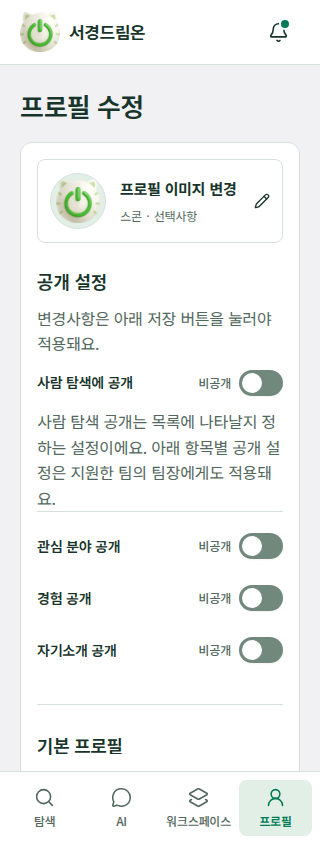
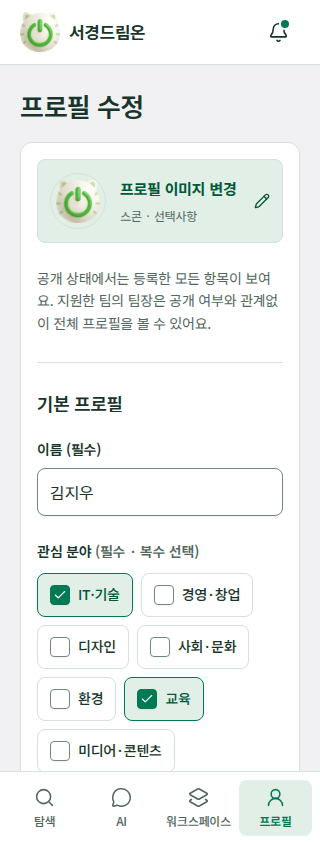
docs(design): record profile policy flows and mobile UX audit

diff --git a/docs/design/screens.md b/docs/design/screens.md
@@ -2,13 +2,15 @@
 
 경로의 공통 접두사는 `/design-preview`이며 로컬 기준 주소는 `http://127.0.0.1:5174`입니다. 경로의 모양이 제품의 최종 URL을 확정하지는 않습니다. 전체 화면 연결은 [라우트 원본](../../design-reference/src/pages/DesignPreviewPage.tsx), 공통 상단·하단 탐색은 [PreviewShell](../../design-reference/src/features/design-preview/PreviewShell.tsx)에서 확인합니다.
 
+프로필 전체 공개·지원 팀장 예외와 AI 로그인 전용 정책은 [정책 문서 PR #75](https://github.com/wejo-team/sku-dreamon/pull/75)에 정리되어 있으며 아직 병합 전입니다. 아래 화면은 그 정책을 반영한 참고 구현으로, 실제 제품 개발의 선행 정책 검토로 함께 확인합니다.
+
 탐색·AI·워크스페이스·내 프로필 보기의 루트 제목은 하단 탐색과 중복되므로 `h1.sr-only`로 유지하고 화면 공간은 사용하지 않습니다. 공모전·팀·지원자 상세 제목과 `프로필 수정` 제목은 표시합니다. 로그인 안내와 필요한 복귀 링크도 유지합니다.
 
 ## 화면별 참조
 
 | 화면·경로 | 코드 원본 | 구현할 정책·완료 조건 |
 | --- | --- | --- |
-| 로그인·가입 `/login`, `/signup` | [AccountPages](../../design-reference/src/features/design-preview/AccountPages.tsx) | [인증 AC-04~13](../specs/authentication.md#acceptance-criteria): 자체 로그인·교내 미인증·로그인 후 행동·접근 권한. 레퍼런스 로그인은 모의 동작 |
+| 로그인·가입 `/login`, `/signup` | [AccountPages](../../design-reference/src/features/design-preview/AccountPages.tsx) | [인증 AC-04~14](../specs/authentication.md#acceptance-criteria): 자체 로그인·교내 미인증·로그인 후 행동·접근 권한. 레퍼런스 로그인은 모의 동작 |
 | 공모전 탐색 `/explore` | [ExplorePages](../../design-reference/src/features/design-preview/ExplorePages.tsx), [ExploreFilters](../../design-reference/src/features/design-preview/ExploreFilters.tsx) | [공고 명세](../specs/contests.md): 제목·분야·마감·공개 정보, 검색·필터·빈 결과. 분야는 아이콘으로 여는 Drawer에서 선택·적용 |
 | 공모전 상세 `/contests/:contestId` | [ExplorePages](../../design-reference/src/features/design-preview/ExplorePages.tsx) | [공고 공개·참가·마감 정책](../specs/contests.md): 원문·참가 방식·인원·일정·제출물·미확인 정보, 관련 팀·팀 만들기 연결 |
 | 팀 탐색 `/explore?tab=teams` | [ExplorePages](../../design-reference/src/features/design-preview/ExplorePages.tsx) | [팀 AC-01](../specs/team-recruitment.md#acceptance-criteria): 모집 역할·정원·상태·공모전별 탐색 |
@@ -18,11 +20,11 @@
 | 내 지원 `/workspace?view=applications` | [WorkspacePages](../../design-reference/src/features/design-preview/WorkspacePages.tsx) | [팀 AC-04·17~18](../specs/team-recruitment.md#acceptance-criteria): 현재 지원 상태·선발 후 취소·자리 반환·재지원 |
 | 팀 공간 `/teams/:teamId?view=space` | [WorkspacePages](../../design-reference/src/features/design-preview/WorkspacePages.tsx) | [팀 AC-09·13·20·25](../specs/team-recruitment.md#acceptance-criteria): 팀장·현재 팀원만 접근, 확정 인원·남은 자리·공고·모집 상태 |
 | 지원자 관리 `/teams/:teamId?view=applicants` | [WorkspacePages](../../design-reference/src/features/design-preview/WorkspacePages.tsx) | [팀 AC-05·14·16](../specs/team-recruitment.md#acceptance-criteria): 해당 팀장만 실제 지원자 검토·선발. 선발 성공 즉시 팀원 확정 |
-| 지원자 검토 `/applicants/:applicantId` | [WorkspacePages](../../design-reference/src/features/design-preview/WorkspacePages.tsx) | [프로필 공개 정책](../specs/profile.md#visibility), [팀 선발 정책](../specs/team-recruitment.md#membership-capacity): 현재 공개된 경험·역량·소개·동의한 포트폴리오 |
-| 내 프로필 `/profile` | [AccountPages](../../design-reference/src/features/design-preview/AccountPages.tsx), [ProfileFields](../../design-reference/src/features/design-preview/ProfileFields.tsx) | [프로필 AC-01·06·20~25](../specs/profile.md#acceptance-criteria): 학사·역량·경험·시간 입력, 단일 포트폴리오 URL·제목, 공개 스위치, 선택형 마스코트 이미지 |
+| 지원자 검토 `/applicants/:applicantId` | [WorkspacePages](../../design-reference/src/features/design-preview/WorkspacePages.tsx) | [프로필 공개 정책](../specs/profile.md#visibility), [팀 선발 정책](../specs/team-recruitment.md#membership-capacity): 지원한 팀장이 공개 상태와 관계없이 전체 현재 프로필을 확인. 일반 팀원은 이 예외를 갖지 않음 |
+| 내 프로필 `/profile` | [AccountPages](../../design-reference/src/features/design-preview/AccountPages.tsx), [ProfileFields](../../design-reference/src/features/design-preview/ProfileFields.tsx) | [프로필 AC-01·06·20~25](../specs/profile.md#acceptance-criteria): 학사·역량·경험·시간 입력, 단일 포트폴리오 URL·제목, 전체 프로필 공개 스위치와 전환 확인, 선택형 마스코트 이미지 |
 | 본인 공개 화면 확인 `/profile/public` | [AccountPages](../../design-reference/src/features/design-preview/AccountPages.tsx) | [사람 탐색과 공개 설정](../specs/profile.md#people-directory): 본인이 설정한 공개 결과 확인 |
-| 사람 탐색·상세 `/explore?tab=people`, `/people/:personId` | [ExplorePages](../../design-reference/src/features/design-preview/ExplorePages.tsx) | [프로필 AC-23~24](../specs/profile.md#acceptance-criteria): 로그인과 탐색 공개 동의, 항목별 공개. 지원자 관계와 구분 |
-| AI `/ai` | [AiChatPage](../../design-reference/src/features/design-preview/AiChatPage.tsx) | [LLM 추천 AC-16~24](../specs/matching.md#acceptance-criteria): 자연어 입력·결과·후속 조건·중단·실패·재시도·빈 결과. 실제 LLM은 미구현 |
+| 사람 탐색·상세 `/explore?tab=people`, `/people/:personId` | [ExplorePages](../../design-reference/src/features/design-preview/ExplorePages.tsx) | [프로필 AC-08~12·23~24](../specs/profile.md#acceptance-criteria): 로그인 후 공개 프로필 검색·전체 등록 항목 열람. 비공개 프로필의 일반 검색·AI 결과·직접 상세 접근 제외. 지원자 관계와 구분 |
+| AI `/ai` | [AiChatPage](../../design-reference/src/features/design-preview/AiChatPage.tsx) | [LLM 추천 AC-16~25](../specs/matching.md#acceptance-criteria): 로그인 후 자연어 입력·결과·후속 조건·중단·실패·재시도·빈 결과. 실제 LLM은 미구현 |
 | 상단 알림함 · 별도 경로 없음 | [Notifications](../../design-reference/src/features/design-preview/Notifications.tsx) | [알림 AC-01~06](../specs/notifications.md): 읽음·미읽음·모두 읽음·소유 관계·관련 화면 이동 |
 | 시작·없는 경로 `/loading`, 정의되지 않은 주소 | [LoadingPage](../../design-reference/src/features/design-preview/LoadingPage.tsx), [라우트](../../design-reference/src/pages/DesignPreviewPage.tsx) | 시작 안내와 찾을 수 없는 대상·경로에서 탐색으로 돌아가기 |
 
@@ -34,21 +36,24 @@ UI에서 확인할 수 있는 흐름과 명세 전체의 구현 완료는 다릅
 | --- | --- |
 | 탐색 → 상세 → 복귀 | 검색·선택한 탭·필터, 결과 없음, 공고·팀이 없는 주소. 커서 조회·무한 스크롤·이전 스크롤 복원은 현재 제품 계약으로 확정하지 않음 |
 | 탐색 필터·정렬·초기화 | 필터 아이콘 → Drawer의 분야/역할 초안 선택 → 적용 시 URL 반영. 취소·Escape·바깥 닫기 시 미적용 선택 제거, 다시 열면 적용값 복원. 팀의 모집중만 조건, 정렬만 변경했을 때도 초기화 아이콘 표시·기본 조건 복원 |
-| 탐색 → AI | 공모전·팀 탭의 검색창 오른쪽 안에 있는 AI 아이콘으로 이동. 사람 탭에는 표시하지 않음. AI 진입과 검색어 지우기는 각각 독립된 44px 조작 영역·접근성 이름 제공 |
+| 탐색 → AI | 공모전·팀·사람 세 탭 모두 검색창 오른쪽 안의 AI 아이콘으로 이동. 비로그인은 로그인 안내 후 이어가기. AI 진입과 검색어 지우기는 각각 독립된 44px 조작 영역·접근성 이름 제공 |
 | 워크스페이스 → 내 지원·팀 만들기 | 내 팀·내 지원 콘텐츠 제목과 개수 옆에 작업 아이콘 배치. 목록 아이콘의 접근성 이름·title은 `내 지원`, 더하기 아이콘은 `팀 만들기`. 각각 44px 조작 영역을 유지하고 팀 만들기는 녹색 주요 행동으로 표시. 내 지원 화면에서는 해당 아이콘의 `aria-current`·녹색 선택 상태와 `내 팀으로` 복귀 링크 확인 |
-| 워크스페이스 → 팀 공간 | 카드 전체가 링크이며 접근성 이름은 팀 이름과 `팀 공간으로`를 포함. 카드 안 이동 문구는 생략하고 내 역할·확정 인원 요약과 같은 행의 우하단 화살표로 이동 가능성을 표시. 공개 모집글과 선발 이후의 명시적 `팀 공간으로` 버튼은 유지 |
+| 워크스페이스 → 팀 공간 | 모집 중은 녹색 배경, 모집 마감·정원 마감은 회색 배경의 상태 배지로 구분하고 상태 문구도 함께 유지. 카드 전체가 링크이며 접근성 이름은 팀 이름과 `팀 공간으로`를 포함. 카드 안 이동 문구는 생략하고 내 역할·확정 인원 요약과 같은 행의 우하단 화살표로 이동 가능성을 표시. 공개 모집글과 선발 이후의 명시적 `팀 공간으로` 버튼은 유지 |
 | 팀 만들기 → 공모전 선택 | Drawer 열기·검색·선택·취소·닫기, 결과가 많을 때 추가 표시, 팀장 포함 총인원 안내와 공식 인원 범위 오류 |
-| 프로필 수정 → 저장 | 첫 기본 정보 카드 상단에 수정 아이콘·공개 상태 스위치·미리보기 아이콘을 묶어 배치. 좁은 화면에서는 이 묶음을 다음 줄로 배치하며 세 조작은 나란히 유지. 수정 아이콘으로 편집 진입. 접근성 이름·title은 `프로필 수정`, 조작 영역은 44px이며 수정 화면 제목은 유지. 캐릭터 팝업 선택·취소·프로필 저장, 기본 스콘, 공개 결과·팀 공간에서 같은 이미지 표시, 학사 상위 선택 변경, 경험 미입력/경험 없음 구분, 공개 동의 기본값, URL 삭제·무효화 후 공개 해제, 취소 시 미저장 값 제거 |
-| 프로필 공개 → 미리보기 | 상단 `공개`/`비공개` 스위치는 `visibility.discoverable`만 즉시 저장하며 항목별 공개와 포트폴리오 동의를 유지. 접근성 이름은 `사람 탐색에 공개`. 눈 아이콘의 `공개된 모습 보기`는 기존 `/profile/public`으로 이동하며 비공개 상태도 그대로 보여줌 |
+| 프로필 수정 → 저장 | 첫 기본 정보 카드 상단에 수정 아이콘·공개 상태 스위치·미리보기 아이콘을 묶어 배치. 좁은 화면에서는 이 묶음을 다음 줄로 배치하며 세 조작은 나란히 유지. 수정 아이콘으로 편집 진입. 접근성 이름·title은 `프로필 수정`, 조작 영역은 44px이며 수정 화면 제목은 유지. 캐릭터 팝업 선택·취소·프로필 저장, 기본 스콘, 공개 결과·팀 공간에서 같은 이미지 표시, 학사 상위 선택 변경, 경험 미입력/경험 없음 구분, 기본 비공개, URL 수정·삭제가 전체 공개 상태를 바꾸지 않는지 확인, 취소 시 미저장 값 제거 |
+| 프로필 공개 → 미리보기 | 상단 `공개`/`비공개` 스위치의 접근성 이름은 `프로필 공개`. 양방향 전환에서 검색·전체 항목 노출과 지원 팀장 예외를 설명하는 Drawer를 열고 `공개로 전환`/`비공개로 전환` 확인 후 저장. 취소·Escape·바깥 닫기는 기존 상태 유지. 눈 아이콘의 `공개된 모습 보기`는 `/profile/public`으로 이동하며 비공개 상태도 그대로 보여줌 |
+| 프로필 이미지 선택 | 큰 장식 제목을 두지 않고 `마음에 드는 파워프렌즈를 골라보세요.`를 작은 설명으로 표시. `프로필 이미지 변경` Drawer 제목은 `sr-only`로 유지하며 선택·적용·취소와 포커스 복귀 확인 |
 | 학교 인증 안내 | 내 프로필의 빨간 `교내 미인증` 배지를 누르면 미제공 기능 안내 Drawer 표시. 확인·Escape·바깥 영역 닫기와 배지 포커스 복귀 제공. 파란 `교내 인증` 배지 스타일은 후속 인증 상태용으로 준비하며 현재 계정에 인증을 부여하지 않음 |
 | 지원 → 내 지원 | 로그인 안내, 필수 프로필 보완 후 원래 흐름 복귀, 선택 메시지, 중복·마감·정원 부족, 접수 후 현재 지원 표시 |
-| 팀장 검토 → 선발 | 해당 팀장 권한, 현재 공개 프로필, 선발 즉시 멤버 반영·남은 자리 감소, 마지막 자리·공모전별 소속 제한 |
+| 팀장 검토 → 선발 | 해당 팀장 권한, 비공개라도 등록한 전체 현재 프로필 표시, 지원 메시지의 본인·지원 팀장 제한, 일반 팀원의 비공개 프로필 접근 제한, 선발 즉시 멤버 반영·남은 자리 감소, 마지막 자리·공모전별 소속 제한 |
 | 선발 후 취소 → 재지원 | 팀 공간 접근 종료·자리 반환, 과거 선발 복원 없이 새 지원, 현재 모집 종료·정원 조건 재확인 |
-| AI → 추천 카드 → 상세 | 준비 중·중단·오류·재시도·결과 없음, 공개 정보 제한, 다시 돌아왔을 때 대화 유지. 이전 카드 표시·복사에도 현재 공개 범위·모집 상태·마감·정원 반영, 입력창과 하단 영역의 겹침 |
+| AI → 추천 카드 → 상세 | 로그인 후에만 대화·입력·결과 제공. 비로그인 직접 주소·로그아웃 뒤에는 로그인 안내이며 이전 대화·입력 제거. 준비 중·중단·오류·재시도·결과 없음, 공개 정보 제한, 다시 돌아왔을 때 대화 유지. 이전 카드 표시·복사에도 현재 공개 범위·모집 상태·마감·정원 반영, 입력창과 하단 영역의 겹침 |
 | AI → 새 대화 | 입력창 왼쪽 도구 아이콘으로 시작. 접근성 이름·title은 `새 대화`, `type="button"`으로 전송과 분리하며 대화·입력 초안 초기화 동작 유지 |
 | 알림 → 관련 화면 | 알림함 열기만으로 읽음 처리하지 않음, 개별/모두 읽음, 빈 상태, 비로그인에 개인 항목 비노출. 읽음 실패 시 개수와 미읽음 상태 유지, 같은 동작 재시도 후 관련 화면 이동 |
 
 반응형 확인은 320px·390px·430px 모바일 폭을 기준으로 합니다. 팝업 포커스·닫기·키보드, 긴 제목·설명, 큰 글꼴, 안전 영역과 세로 스크롤을 함께 검토합니다. 테스트 결과·스크린샷은 검증한 커밋과 함께 PR에 연결합니다.
+
+공개 사람 상세·본인 공개 미리보기·지원자 상세의 등록 항목은 [ProfileDetails](../../design-reference/src/features/design-preview/ProfileDetails.tsx)를 함께 참고합니다. 학사 정보·관심·역량·경험·자기소개·활동 가능 시간·포트폴리오 URL/제목을 같은 정보 계층으로 표시합니다. 인증 정보나 미수집 연락처를 공개 항목으로 추가하지 않습니다. 비공개 프로필도 지원받은 팀장은 전체 현재 정보를 보지만 일반 검색에 포함하지 않으며, 실제 LLM에 비공개 데이터를 전송하는 권한을 뜻하지 않습니다.
 
 키·값 정보는 공모전 카드·상세, 팀 목록·공간, 내 프로필·공개 프로필·지원자 검토에서 같은 [정보 계층](tokens.md)을 사용합니다. 워크스페이스 팀 카드는 내 역할과 확정 인원/정원으로 요약하고, 중복되는 `팀장 포함 총 N명` 안내는 생략합니다. 요약 옆 화살표는 별도 버튼이 아니며 카드 링크의 일부입니다. 팀 만들기·모집 상세의 정원 안내와 팀장 포함 정원 계산 정책은 유지합니다.
 

diff --git a/docs/design/verification.md b/docs/design/verification.md
@@ -1,6 +1,8 @@
 # 공식 디자인 검증 기록
 
-2026-10-19에는 탐색·AI·워크스페이스·프로필의 하단 내비게이션과 중복되는 상단 제목을 줄였습니다. 접근성용 페이지 제목은 유지하고, 상세 화면과 프로필 수정 제목은 그대로 표시합니다. 탐색의 AI 진입점은 검색창 오른쪽, 새 대화는 AI 입력창, 프로필 수정은 기본 정보 카드 안에 배치했습니다. 워크스페이스는 내 팀·내 지원 제목과 개수 옆에 작업 아이콘을 둡니다. 회색 배경·흰 기본 카드·녹색 선택 상태는 유지합니다. 프로필 카드 상단은 수정·공개/비공개·미리보기를 한 묶음으로 정리했습니다. 학교 인증 설명은 빨간 미인증 배지를 누르면 열리는 안내 팝업으로 옮겼으며, 파란 인증 배지는 후속 상태의 스타일만 준비했습니다.
+2026-10-19에는 프로필의 항목별 공개 설정을 하나의 공개·비공개 상태로 통합하고, 전환 전에 설명·확인 팝업을 제공합니다. 공개이면 로그인한 사용자가 등록된 모든 항목을 확인하고, 비공개이면 일반 검색·AI 사람 탐색·일반 상세 주소에서 제외합니다. 지원받은 팀장은 공개 상태와 관계없이 전체 현재 프로필을 확인합니다. 정책 변경은 병합 전인 [문서 PR #75](https://github.com/wejo-team/sku-dreamon/pull/75)에 정리되어 있습니다.
+
+AI는 로그인 후에만 이용하며 공모전·팀·사람 검색창 모두에 진입 아이콘을 둡니다. 워크스페이스의 모집 중 배지는 녹색, 모집 마감·정원 마감 배지는 회색으로 구분합니다. 프로필 이미지 선택창은 큰 장식 제목 대신 작은 설명을 사용하고, 접근성용 제목과 선택·적용·취소 동작을 유지합니다. 회색 화면 배경·흰 기본 카드·녹색 선택 상태와 기존 상단 공간 정리는 유지합니다.
 
 재생성 가능한 검증 원본은 [탐색 테스트](../../design-reference/src/features/design-preview/ExplorePages.test.tsx)·[프로필 테스트](../../design-reference/src/features/design-preview/AccountPages.test.tsx)와 [브라우저 검사 스크립트](../../design-reference/scripts/reference-check.cjs)이며, 화면은 같은 변경 PR에 포함된 코드 기준입니다.
 
@@ -9,25 +11,37 @@
 | 검사 | 결과 |
 | --- | --- |
 | 고정 의존성 `npm ci` | 이전 검증에서 성공. 이번에는 의존성 변경 없이 기존 설치를 사용했으며 재실행하지 않음 |
-| `npm test` | 이번 변경에서 9개 파일·111개 테스트 통과 |
-| ESLint | 이번 변경에서 전체 검사 통과 |
-| Prettier | 이번 변경에서 통과 |
-| TypeScript·production build | 이번 변경에서 통과. 단일 JS 청크 678.14kB 경고는 남아 있으며 제품 구현 시 분할·실제 네트워크 성능 검증 필요 |
-| `npm run check:ui` | 직전 상단 제목 변경에서 Chromium 320×844·390×844·430×844 통과. 기존 흐름·필터 취소/적용/초기화·워크스페이스 요약을 함께 확인 |
-| 브라우저 확인 | 직전 상단 제목 변경에서 비로그인 사람 차단, 마감 공고 읽기 전용, 생성·프로필, 선발 즉시 팀원·정원 반영, AI 실패/재시도, 알림 실패/재시도 확인 |
-| 상단 제목·작업 아이콘 | 직전 상단 제목 변경에서 320·390·430px 확인. 접근성용 루트 제목 유지·상세 제목 표시, 검색창 안 AI·지우기 44px 분리, AI 이동·새 대화 초기화·프로필 수정/취소 확인 |
-| 프로필 상단 조작·인증 안내 | 이번 변경에서 320·390·430px 확인. 공개/비공개 즉시 반영, 기존 항목별·포트폴리오 동의 보존, 미리보기 공개/비공개, 수정/취소, 인증 팝업 열기·닫기·Escape 포커스 복귀, 가로 넘침·런타임 오류 없음 |
-| 별도 모바일 흐름 | 이전 검증에서 필수 입력 오류·원래 팀 복귀, 모집에 없는 역할 지원, 취소 후 새 지원, 공식 인원 오류, 개인 공모전 준비 팀, 공개 스위치·학사 연쇄 선택·포트폴리오 저장 확인 |
-| 마스코트·기본 커버 | 이전 검증에서 5종 원본 PNG·선택/취소/저장·공개 프로필 반영, 이미지 없음/로드 실패 fallback, 320·390·430px 브라우저 확인 |
-| 키보드·작은 높이 | 직전 변경에서 마스코트·탐색 필터의 화살표 키·Escape·트리거 포커스 복귀 확인. 320×568에서 두 선택 목록의 스크롤·하단 버튼 접근, 탐색 필터 적용·취소 확인 |
-| 색상 대비 | 인증 배지 흰 글자는 미인증 빨강 6.57:1·인증 파랑 6.70:1. 주요 버튼·선택 탭 흰 글자 5.36:1. 카드 보조 글자 #40594a는 기본·hover·누름 면에서 7.65:1·5.07:1·4.61:1, 녹색 값 #00573a는 각각 8.66:1·5.74:1·5.22:1. 흰 조작 면의 기본 보조 글자는 6.07:1. 모든 화면 전체의 자동 접근성 감사 완료를 뜻하지 않음 |
-| 카드와 배경 | 배경 #f1f1f3 유지. 기본 카드 #ffffff, hover #bdd9c7·누름 #b2d0bd와 녹색 테두리, 아래쪽 그림자 적용. 카드 안 공모전 정보 면은 #f2f7f4 |
-| 탐색 탭·필터 | 선택 탭은 #007a55 바탕·흰 글자·600 두께. 필터의 초안 취소·적용·URL 복원과 정렬만 변경한 상태의 초기화는 직전 컴포넌트 테스트에서 통과 |
-| 정보 계층·중복 안내 | 키 13px/500 보조색 유지, 값 16px/600을 #00573a로 변경, 긴 설명 16px/400·본문 색상 유지. 7개 정보 화면의 320·390·430px 배치와 팀 목록 중복 안내 제거는 직전 변경에서 확인했으며 정원 정책은 유지 |
-| 레퍼런스 화면 | 모바일 320·390·430px에서 가로 넘침·브라우저 런타임 오류 없음. 기본 화면은 포인터를 카드 밖에 둔 상태로, hover는 별도 화면으로 기록 |
-| 문서 | 최신 스크린샷을 포함한 원본 링크·앵커, VitePress 빌드·생성 링크·자산 검사 통과. 문서 도구는 변경하지 않아 이전에 통과한 도구 테스트는 재실행하지 않음 |
+| `npm test` | 최종 수정 후 9개 파일·133개 테스트 통과 |
+| ESLint·Prettier | 최종 수정 후 전체 검사 통과 |
+| TypeScript·production build | 최종 수정 후 통과, 단일 JS 청크 675.75kB. 500kB 초과 경고는 남아 있으며 제품 구현 시 분할·실제 네트워크 성능 검증 필요 |
+| `npm run check:ui` | 이번 변경에서 Chromium 320×844·390×844·430×844 통과. 기존 탐색·생성·프로필·지원·선발·AI·알림과 필터·워크스페이스 흐름 확인 |
+| 공개 전환·전체 프로필 | 별도 브라우저 320·375·390·430px에서 전환 설명·확인·취소·Escape·포커스 복귀 확인. 공개 프로필의 등록 항목·시간·포트폴리오 표시, 비공개의 일반 검색·직접 상세 차단, 지원 팀장의 전체 현재 프로필 열람 확인 |
+| AI 로그인·진입 | 같은 네 모바일 폭에서 비로그인 AI 접근 제한·로그인 후 복귀, 공모전·팀·사람 검색창의 AI 아이콘 확인. AI 대화는 로그인 후 제공하며 실제 LLM을 호출하지 않음 |
+| 모집 상태·프로필 이미지 | 같은 네 모바일 폭에서 모집 상태별 배경색과 문구, 마스코트 선택창의 작은 설명·접근성용 제목·선택과 취소 확인 |
+| 기존 연결·예외 흐름 | `check:ui`에서 비로그인 사람 차단, 마감 공고 읽기 전용, 프로필·팀 생성, 선발 즉시 팀원·정원 반영, AI 실패/재시도, 알림 실패/재시도 확인 |
+| 마스코트·기본 커버 | 5종 원본 PNG와 기본 스콘, 선택·취소·저장·공개 프로필 반영, 공모전 이미지 없음·로드 실패 fallback을 기존 브라우저 검사와 최신 재검사에서 확인 |
+| 키보드·작은 높이 | 320×568·667×375 가로 화면에서 공개 전환 팝업의 하단 버튼·취소 후 포커스 복귀, 마스코트 마지막 선택지·적용 버튼 접근 통과. 390×844에서 팝업 제목·설명을 CSS로 150% 확대해 배치 확인. 실제 기기 확대 검증은 아님 |
+| 색상 대비 | 모집 중 #164c35/#cce9d7은 7.65:1, 마감 #52525b/#e4e4e7은 6.09:1. 인증 배지 흰 글자는 미인증 빨강 6.57:1·인증 파랑 6.70:1. 주요 버튼·선택 탭 흰 글자 5.36:1. 카드 보조 글자 #40594a는 기본·hover·누름 면에서 7.65:1·5.07:1·4.61:1, 녹색 값 #00573a는 각각 8.66:1·5.74:1·5.22:1. 흰 조작 면의 기본 보조 글자는 6.07:1 |
+| 카드와 배경 | 배경 #f1f1f3 유지. 기본 카드 #ffffff, hover #bdd9c7·누름 #b2d0bd와 녹색 테두리·아래쪽 그림자 적용. 모집 상태 배지의 색을 달리해도 카드 전체의 기본 면은 유지 |
+| 정보 계층 | 키는 13px/500 보조색, 값은 16px/600 녹색, 긴 설명은 16px/400 본문 색상. 빈 역량 안내의 불필요한 굵기를 제거하고 긴 설명의 줄바꿈을 정리 |
+| 레퍼런스 화면 | 최신 브라우저 검사에서 모바일 가로 넘침·런타임 오류 없음. 기본 화면은 포인터를 카드 밖에 둔 상태로, hover는 별도 화면으로 기록 |
+| 독립 코드 검토 | 공개/비공개 조회·지원 팀장 예외·AI 로그인 범위에서 중요 발견 사항 없음. 서버 권한 검증을 대신하지 않음 |
+| 문서 | 최신 스크린샷을 포함한 원본 링크·앵커, VitePress 빌드·생성 링크·자산 검사 통과. 문서 도구는 변경하지 않음 |
 
 브라우저 검사는 설치된 Playwright/Chromium을 환경 변수로 지정해 실행했습니다. 일반 설치·수동 실행 명령은 [인계 문서](handoff.md#verification-commands)를 따릅니다. 실제 기기의 키보드·보조 기술, 서버 권한, 다중 사용자 동시 선발, 영구 저장과 실제 LLM 품질은 검증 대상이 아닙니다. 이 결과는 기능 명세 AC의 제품 구현 완료를 의미하지 않습니다.
+
+## UI/UX 점검
+
+`ui-ux-pro-max` 기준으로 접근성·터치 조작·상태 구분·정보 계층·모바일 배치를 확인했습니다. 점검에서 발견한 문제와 반영한 변경은 다음과 같습니다.
+
+| 발견 사항 | 반영 |
+| --- | --- |
+| 공개 스위치와 DrawerTrigger가 같은 `data-state`를 사용해 실제 공개 상태와 시각 상태가 충돌 | 스위치 상태와 팝업 상태를 분리하고, 확인·취소·Escape 이후 상태와 트리거 포커스 복귀를 다시 확인 |
+| 비어 있는 역량 안내가 실제 입력 값처럼 굵게 표시 | 보조 안내의 일반 굵기로 조정해 실제 값과 구분 |
+| 긴 공개 안내와 프로필 설명의 모바일 줄바꿈 | 좁은 폭에서도 문장·조작을 읽을 수 있도록 정리 |
+| 모집 중과 마감 상태의 배경이 유사 | 녹색·회색 배경을 구분하면서 상태 문구를 유지해 색상만으로 의미를 전달하지 않음 |
+
+위 결과는 검토한 화면·상태에 대한 점검이며 모든 화면의 자동 접근성 감사, 실제 모바일 보조 기술 검증이나 제품 서버의 권한 검증 완료를 뜻하지 않습니다.
 
 ## 모바일 화면
 
@@ -41,27 +55,27 @@
 | --- | --- |
 | ![분야와 역할을 선택하는 탐색 필터 팝업](assets/explore-filters-390.png) | ![더 진한 색과 그림자로 구분되는 카드 hover 상태](assets/explore-hover-390.png) |
 
-워크스페이스는 내 팀·내 지원 제목 옆에 작업 아이콘을 배치합니다. 카드에서는 역할과 확정 인원을 강조하고, 전체 카드를 누르면 팀 공간으로 이동합니다.
+워크스페이스는 내 팀·내 지원 제목 옆에 작업 아이콘을 배치합니다. 모집 중은 녹색, 모집 마감·정원 마감은 회색 배지로 구분합니다. 카드에서는 역할과 확정 인원을 강조하고, 전체 카드를 누르면 팀 공간으로 이동합니다.
 
-![키와 값의 위계가 분명한 워크스페이스 팀 카드](assets/workspace-390.png)
+![모집 상태 배경과 역할·인원을 구분한 워크스페이스 팀 카드](assets/workspace-390.png)
 
 | 즉시 선발 확인 · 390px | 확정 팀원 · 390px |
 | --- | --- |
 | ![선발 확인 팝업](assets/selection-390.png) | ![선발 이후 확정 팀원](assets/members-390.png) |
 
-| 공개 설정 · 320px | 팀 생성 · 320px |
+| 프로필 입력 · 320px | 팀 생성 · 320px |
 | --- | --- |
-| ![독립적인 프로필 공개 설정](assets/profile-320.png) | ![모바일 팀 생성 폼](assets/create-team-320.png) |
+| ![항목별 공개 스위치를 제거한 프로필 입력 화면](assets/profile-320.png) | ![모바일 팀 생성 폼](assets/create-team-320.png) |
 
 | 마스코트 선택 · 390px | 공모전 기본 커버 · 390px |
 | --- | --- |
-| ![파워프렌즈 프로필 이미지 선택](assets/avatar-picker-390.png) | ![이미지가 없는 공모전의 스콘 커버](assets/default-cover-390.png) |
+| ![작은 설명과 캐릭터 선택지가 있는 파워프렌즈 프로필 이미지 선택](assets/avatar-picker-390.png) | ![이미지가 없는 공모전의 스콘 커버](assets/default-cover-390.png) |
 
 공모전 검색 팝업은 320px에서도 썸네일·이름·주최자·마감과 선택 표시를 함께 확인합니다.
 
 ![썸네일이 포함된 공모전 선택 팝업](assets/contest-picker-320.png)
 
-검색창의 AI 진입점과 프로필 카드의 수정·공개·미리보기 조작은 별도 페이지 제목 없이 사용할 수 있습니다. AI의 새 대화는 입력창 왼쪽 아래에 있습니다.
+세 탐색 탭의 검색창 AI 아이콘과 프로필 카드의 수정·공개·미리보기 조작은 별도 페이지 제목 없이 사용할 수 있습니다. 공개·비공개 전환은 설명 팝업에서 확인한 뒤 반영되며 항목별 설정은 없습니다. AI의 새 대화는 로그인한 화면의 입력창 왼쪽 아래에 있습니다.
 
 | 검색어 지우기·AI · 320px | 프로필 수정 진입 · 390px |
 | --- | --- |
@@ -72,3 +86,15 @@
 학교 인증 안내는 미인증 배지를 눌렀을 때만 표시합니다. 현재 계정의 인증 상태는 바꾸지 않습니다.
 
 ![교내 미인증 배지에서 열린 학교 인증 안내 팝업](assets/profile-school-390.png)
+
+| 공개 전환 확인 · 390px | 비공개 전환 확인 · 390px |
+| --- | --- |
+| ![공개되는 전체 항목과 지원 팀장 예외를 설명하는 팝업](assets/profile-public-confirm-390.png) | ![검색 제외와 지원 팀장 예외를 설명하는 팝업](assets/profile-private-confirm-390.png) |
+
+| AI 로그인 안내 · 390px | 사람 탐색의 AI 진입 · 390px |
+| --- | --- |
+| ![비로그인 AI 접근 시 로그인으로 연결하는 화면](assets/ai-login-390.png) | ![사람 검색창 안의 AI 아이콘](assets/people-ai-390.png) |
+
+지원받은 팀장은 지원자 상세에서 공개 설정과 관계없이 등록된 전체 프로필을 확인합니다.
+
+![지원받은 팀장이 확인하는 지원자 프로필](assets/applicant-profile-390.png)

diff --git a/docs/design/tokens.md b/docs/design/tokens.md
@@ -23,6 +23,8 @@
 | 경계·입력 | `--border: #d5e2da`, `--input: #71897c` | 카드와 조작 요소의 경계 |
 | 포커스 | `--ring: #007a55` | 키보드 포커스 표시 |
 | 성공·확정 | `--leaf-soft: #f0fdf4`, `--leaf-ink: #166534` | 성공·완료 상태 |
+| 모집 중 | `--recruiting-background: #cce9d7`, 글자 `#164c35` | `TeamStatusBadge`의 접수 가능한 상태. 상태 문구와 함께 사용 |
+| 모집 마감·정원 마감 | `--closed-background: #e4e4e7`, 글자 `#52525b` | 접수가 닫힌 상태의 회색 면. 카드 자체는 클릭 가능한 흰 기본 면 유지 |
 | 주의·확인 | `--warning-soft: #fffbeb`, `--warning-ink: #92400e` | 확인 필요·주의 상태 |
 | 오류·위험 행동 | `--coral-soft: #fef2f2`, `--coral-ink: #b91c1c` | 오류·파괴적 행동 |
 
@@ -58,13 +60,14 @@
 | 워크스페이스 작업 | [Button](../../design-reference/src/components/ui/button.tsx)의 링크 조합과 [WorkspacePages](../../design-reference/src/features/design-preview/WorkspacePages.tsx). 내 지원은 `ClipboardList`, 팀 만들기는 `Plus` 아이콘 |
 | 입력·선택·설명·오류 | [Input](../../design-reference/src/components/ui/input.tsx), [Textarea](../../design-reference/src/components/ui/textarea.tsx), [NativeSelect](../../design-reference/src/components/ui/native-select.tsx), [Alert](../../design-reference/src/components/ui/alert.tsx) |
 | 학교 인증 상태 | [SchoolVerificationBadge](../../design-reference/src/features/design-preview/PreviewUi.tsx). 미인증은 `--school-unverified: #b42318`, 인증은 `--school-verified: #1d4ed8`, 글자는 흰색. 내 프로필의 미인증 배지는 44px 버튼으로 감싸 안내 Drawer를 열고 다른 화면은 상태 배지로 표시. 현재 계정은 모두 미인증 |
-| 공개 여부 | [Switch](../../design-reference/src/components/ui/switch.tsx)와 [프로필 설정](../../design-reference/src/features/design-preview/AccountPages.tsx) |
+| 공개 여부 | [Switch](../../design-reference/src/components/ui/switch.tsx) + [Drawer](../../design-reference/src/components/ui/drawer.tsx), [ProfileVisibilityControl](../../design-reference/src/features/design-preview/AccountPages.tsx). 전체 프로필 상태 하나를 설명·확인 후 전환하며 취소·닫기는 기존 상태 유지 |
 | 다중·단일 선택 | [Checkbox](../../design-reference/src/components/ui/checkbox.tsx), [RadioGroup](../../design-reference/src/components/ui/radio-group.tsx) |
-| 프로필 캐릭터 선택 | [Drawer](../../design-reference/src/components/ui/drawer.tsx) + [RadioGroup](../../design-reference/src/components/ui/radio-group.tsx), [AvatarPicker](../../design-reference/src/features/design-preview/AvatarPicker.tsx). 팝업 적용 후 프로필 저장, 취소 시 유지 |
+| 프로필 캐릭터 선택 | [Drawer](../../design-reference/src/components/ui/drawer.tsx) + [RadioGroup](../../design-reference/src/components/ui/radio-group.tsx), [AvatarPicker](../../design-reference/src/features/design-preview/AvatarPicker.tsx). 팝업 적용 후 프로필 저장, 취소 시 유지. 제목 `프로필 이미지 변경`은 `sr-only`, 작은 설명 `마음에 드는 파워프렌즈를 골라보세요.`만 표시 |
 | 공모전 검색 선택 | [Drawer](../../design-reference/src/components/ui/drawer.tsx) + [Command](../../design-reference/src/components/ui/command.tsx), [ContestPicker](../../design-reference/src/features/design-preview/ContestPicker.tsx) |
 | 탐색 분야·역할 필터 | [Drawer](../../design-reference/src/components/ui/drawer.tsx) + [RadioGroup](../../design-reference/src/components/ui/radio-group.tsx) + [Checkbox](../../design-reference/src/components/ui/checkbox.tsx), [ExploreFilters](../../design-reference/src/features/design-preview/ExploreFilters.tsx). 초안 선택·취소·적용, 적용한 조건은 URL에 유지 |
 | 시간 설정·알림·확인 | [Drawer](../../design-reference/src/components/ui/drawer.tsx), 각 화면의 열기·닫기·취소·적용 흐름 |
 | AI 대화·입력 | [Message](../../design-reference/src/components/ui/message.tsx), [Bubble](../../design-reference/src/components/ui/bubble.tsx), [InputGroup](../../design-reference/src/components/ui/input-group.tsx), [MessageScroller](../../design-reference/src/components/ui/message-scroller.tsx) |
+| 모집 상태 | [TeamStatusBadge](../../design-reference/src/features/design-preview/PreviewUi.tsx). `recruitmentIssue`에 따라 녹색·회색을 구분하며 `teamStatusLabel`의 상태 문구 유지 |
 | 상태 표시·경계 | [Badge](../../design-reference/src/components/ui/badge.tsx), [Separator](../../design-reference/src/components/ui/separator.tsx) |
 
 컴포넌트는 저장소에 포함된 소스와 고정 의존성을 기준으로 합니다. 공식 사이트의 최신 예제를 복사해 버전·상호작용을 임의로 교체하지 않습니다. 채팅 구성 요소의 출처·라이선스는 [LICENSE.shadcn](../../design-reference/src/components/ui/LICENSE.shadcn)을 유지합니다.
@@ -73,10 +76,10 @@
 
 하단 탐색은 탐색·AI·워크스페이스·프로필의 네 항목입니다. 상단 우측 알림과 하단 프로필의 역할을 구분합니다. 네 루트 화면의 중복 제목은 `h1.sr-only`로 남기고 시각적인 제목 영역은 두지 않습니다. 공모전·팀·지원자 상세와 프로필 수정 화면의 제목은 유지합니다. AI 화면은 대화·입력창·하단 영역을 함께 배치하며 [PreviewShell](../../design-reference/src/features/design-preview/PreviewShell.tsx)의 `visualViewport` 대응을 확인합니다.
 
-공모전·팀 탐색의 AI 추천 진입 아이콘은 검색창 오른쪽 안에 배치하며 사람 탭에는 표시하지 않습니다. 검색어 지우기와 AI 진입은 각각 독립된 44px 조작 영역으로 유지합니다. 필터와 초기화도 최소 44px 아이콘 버튼으로 표시하며 접근성 이름을 제공합니다. 선택한 필터는 개수와 접근성 설명으로 알리고, 공모전 정렬은 선택 목록을 유지합니다. 정렬만 바꾼 경우에도 초기화 아이콘으로 기본 조건으로 돌아갈 수 있습니다.
+공모전·팀·사람 탐색 모두 AI 추천 진입 아이콘을 검색창 오른쪽 안에 배치합니다. AI 대화는 로그인 후 이용하며 비로그인 진입에는 로그인 안내를 표시합니다. 검색어 지우기와 AI 진입은 각각 독립된 44px 조작 영역으로 유지합니다. 필터와 초기화도 최소 44px 아이콘 버튼으로 표시하며 접근성 이름을 제공합니다. 선택한 필터는 개수와 접근성 설명으로 알리고, 공모전 정렬은 선택 목록을 유지합니다. 정렬만 바꾼 경우에도 초기화 아이콘으로 기본 조건으로 돌아갈 수 있습니다.
 
 워크스페이스는 내 팀·내 지원 콘텐츠 제목, 개수, 작업 아이콘을 한 줄로 배치합니다. 내 지원·팀 만들기 링크는 각각 44px 조작 영역과 행동 이름을 나타내는 `aria-label`·`title`을 제공하고, 팀 만들기는 녹색 주요 버튼으로 강조합니다. 내 지원 화면의 목록 아이콘은 `aria-current`와 녹색으로 현재 위치를 표시합니다. 팀 카드는 전체 링크를 유지하고 내 역할·확정 인원과 같은 행 우하단의 `ChevronRight`로 이동을 나타냅니다. 화살표는 장식으로 처리하며, 카드 링크의 접근성 이름에 팀 이름과 `팀 공간으로`를 포함합니다. 이 카드의 이동 문구만 생략하고 상세·선발 이후의 명시적 이동 버튼은 유지합니다.
 
-내 프로필 보기에서는 첫 기본 정보 카드의 이름·아바타 옆에 `SquarePen` 수정 아이콘을 배치합니다. 44px 조작 영역과 `프로필 수정` 접근성 이름·title을 제공하며 공개/비공개 스위치·눈 모양 미리보기를 같은 조작 묶음에 배치합니다. 반복되는 공개 안내 행과 상시 학교 인증 설명은 표시하지 않습니다. 공개 스위치는 사람 탐색 공개만 즉시 저장하며 별도의 항목별 동의는 보존합니다. AI의 `새 대화`는 입력창 왼쪽 도구 아이콘으로 배치하고 `type="button"`을 사용해 메시지 전송과 구분합니다.
+내 프로필 보기에서는 첫 기본 정보 카드의 이름·아바타 옆에 `SquarePen` 수정 아이콘을 배치합니다. 44px 조작 영역과 `프로필 수정` 접근성 이름·title을 제공하며 공개/비공개 스위치·눈 모양 미리보기를 같은 조작 묶음에 배치합니다. 반복되는 공개 안내 행과 상시 학교 인증 설명은 표시하지 않습니다. 공개 스위치의 접근성 이름은 `프로필 공개`이며, 전체 프로필 공개·비공개를 바꾸기 전에 설명 Drawer와 확인·취소 버튼을 제공합니다. 확인 전 스위치는 기존 값을 유지하고 취소·Escape·바깥 닫기로 되돌릴 수 있습니다. 항목별·포트폴리오별 스위치는 두지 않습니다. 등록 시간·포트폴리오를 포함한 전체 항목 공개와 지원 팀장 예외는 [정책 문서 PR #75](https://github.com/wejo-team/sku-dreamon/pull/75)의 병합 전 변경을 참고합니다. AI의 `새 대화`는 입력창 왼쪽 도구 아이콘으로 배치하고 `type="button"`을 사용해 메시지 전송과 구분합니다.
 
 팝업은 열기·닫기·Escape·바깥 영역·포커스 복귀를 확인하고, 폼의 적용과 취소를 구분합니다. 프로필 공개 스위치는 라벨과 설명에서 누구에게 공개되는지 드러내야 합니다. 화면 제목·입력 라벨·오류 메시지·로딩·빈 상태를 유지하고 색만으로 상태를 전달하지 않습니다. 긴 한국어 텍스트·큰 글꼴·화면 확대·작은 높이·키보드가 열린 상태·감소된 모션 설정에서 조작이 가능한지 확인합니다.

diff --git a/docs/design/handoff.md b/docs/design/handoff.md
@@ -2,6 +2,8 @@
 
 팀의 공식 화면·인터랙션 기준은 저장소의 `design-reference/`입니다. 제품 개발에서는 같은 브랜치·커밋의 레퍼런스와 명세를 참조합니다. 배포된 GPT Sites가 이후 변경되더라도 저장소에 반영되지 않은 내용을 자동으로 공식 기준으로 사용하지 않습니다.
 
+프로필 전체 공개·비공개, 지원받은 팀장의 전체 현재 프로필 열람 예외, AI 전체 로그인 전용 정책은 [문서 전용 PR #75](https://github.com/wejo-team/sku-dreamon/pull/75)에 있으며 아직 병합 전입니다. 이 레퍼런스는 해당 정책을 반영한 화면 참고 자료이므로 제품 구현 전 선행 정책 PR의 검토·병합 상태를 확인합니다.
+
 ## 로컬 실행
 
 저장소 루트에서 시작합니다. Node·npm 버전은 [레퍼런스 package.json](../../design-reference/package.json)과 [.nvmrc](../../design-reference/.nvmrc)에 고정돼 있습니다.
@@ -23,7 +25,7 @@ npm run dev
 | 탐색 | `/design-preview/explore` |
 | AI | `/design-preview/ai` |
 
-위 계정은 공개된 로컬 UI 확인용 문자열입니다. 실제 서비스 계정·비밀값이나 인증 구현이 아닙니다. 로그인 전에도 공개 공모전·팀을 볼 수 있고 사람 탐색·개인 화면에는 로그인 안내가 표시됩니다.
+위 계정은 공개된 로컬 UI 확인용 문자열입니다. 실제 서비스 계정·비밀값이나 인증 구현이 아닙니다. 로그인 전에도 공개 공모전·팀을 볼 수 있고 사람 탐색·AI·개인 화면에는 로그인 안내가 표시됩니다. AI는 공모전·팀·사람 등 요청 대상과 관계없이 로그인 후에만 이용하며 직접 주소에도 같은 제한을 적용합니다.
 
 모바일 화면으로 확인하며 별도 데스크톱 서비스 디자인은 제공하지 않습니다. 넓은 창에서는 최대 480px 화면이 가운데 배치됩니다. 브라우저의 모바일 에뮬레이션에서 폭 320px·390px·430px을 확인하고 입력창 키보드·안전 영역·바닥 메뉴는 실제 기기에서도 검증합니다.
 
@@ -48,7 +50,8 @@ npm run dev
 - 데이터는 메모리에 있으므로 새로고침하면 초기 로그인·프로필·팀·지원 상태로 돌아갑니다. 다른 브라우저나 팀원의 화면과 공유되지 않습니다. 탭 이동 중 유지되는 상태도 영구 저장을 뜻하지 않습니다.
 - 로그인은 고정 문자열을 검사하며 계정 발급·비밀번호 해시·서버 세션을 제공하지 않습니다. 가입 화면의 입력은 인터랙션 확인용이고 새로 가입한 아이디·비밀번호로 실제 로그인할 수 있는 계정을 만들지 않습니다.
 - 지원·취소·선발·정원·팀 공간은 로컬 상태 전환을 확인합니다. 실제 여러 사용자 간 동시 요청, 서버 권한 검사·트랜잭션·DB 보존은 제품에서 구현해야 합니다.
-- AI는 예시 데이터에서 로컬 응답을 만드는 UI입니다. 제품 추천은 [LLM 기반](../specs/matching.md)으로 변경됐지만 모델·검색·실행·API·저장 등 내부 아키텍처는 TBD입니다. 로컬 응답 코드를 제품 추천 알고리즘으로 복사하지 않습니다.
+- 프로필 공개 상태는 기본 비공개이며 하나의 스위치로 전체 등록 항목에 적용합니다. 전환 Drawer에서 확인해야 저장하고 취소·닫기는 현재 상태를 유지합니다. 공개이면 로그인한 일반 사용자의 검색·AI 사람 탐색·상세에서 학사·관심·역량·경험·소개·활동 가능 시간·포트폴리오를 확인하며, 비공개이면 일반 검색·상세에서 제외합니다. 지원받은 팀장은 비공개여도 전체 현재 프로필을 보지만 일반 팀원은 이 예외를 갖지 않습니다. 인증 정보·미수집 연락처는 공개 항목이 아닙니다.
+- AI는 로그인한 세션에서 예시 데이터로 로컬 응답을 만드는 UI입니다. 로그아웃하면 화면의 대화·초안도 제거하며, 공모전·팀·사람 검색창 모두 AI 진입 아이콘을 제공합니다. 제품 추천은 [LLM 기반](../specs/matching.md)으로 변경됐지만 모델·검색·실행·API·저장 등 내부 아키텍처는 TBD입니다. 로컬 응답 코드를 제품 추천 알고리즘으로 복사하지 않습니다. 팀장의 비공개 프로필 열람 권한을 외부 LLM 전송·추천 사용 권한으로 확대하지 않으며, 외부 포트폴리오 내용 수집·분석도 제공하지 않습니다.
 - 알림의 읽음 상태·탐색 결과도 로컬 상태입니다. 푸시·이메일·실시간 서버 이벤트를 제공하지 않습니다.
 - 공고·인물·팀·학사 선택지는 화면 확인용 데이터입니다. 학사 데이터의 운영 연도·정규 코드와 실제 공고의 출처·조건은 담당 명세대로 검증합니다. 레퍼런스의 외부 링크를 실제 공고가 존재하거나 접수 가능하다는 근거로 사용하지 않습니다.
 - 실제 제품 시연의 계정·데이터·AI 연동 안내는 [시연 기준](../specs/sprint-1.md#web-demo)을 따릅니다. 공식 디자인의 제품 문구와 모의 구현에 관한 개발자 설명을 구분합니다.

diff --git a/design-reference/README.md b/design-reference/README.md
@@ -2,4 +2,6 @@
 
 모바일 화면과 인터랙션을 확인하는 독립 실행 앱입니다. 프론트엔드 개발의 디자인 기준은 이 저장소의 코드와 [공식 디자인 안내](../docs/design/README.md)이며 GPT Sites 배포본은 기준 원본이 아닙니다.
 
+전체 프로필 공개·비공개와 지원 팀장 예외, AI 로그인 전용 정책은 병합 전인 [문서 PR #75](https://github.com/wejo-team/sku-dreamon/pull/75)를 함께 확인합니다.
+
 실행 방법, 테스트 계정, 화면별 명세와 제품 구현으로 옮기는 방법은 [개발 인계](../docs/design/handoff.md)를 확인하세요. 이 앱은 메모리의 예시 데이터와 모의 응답으로 동작하며 실제 인증·API·LLM을 연결하지 않습니다.
